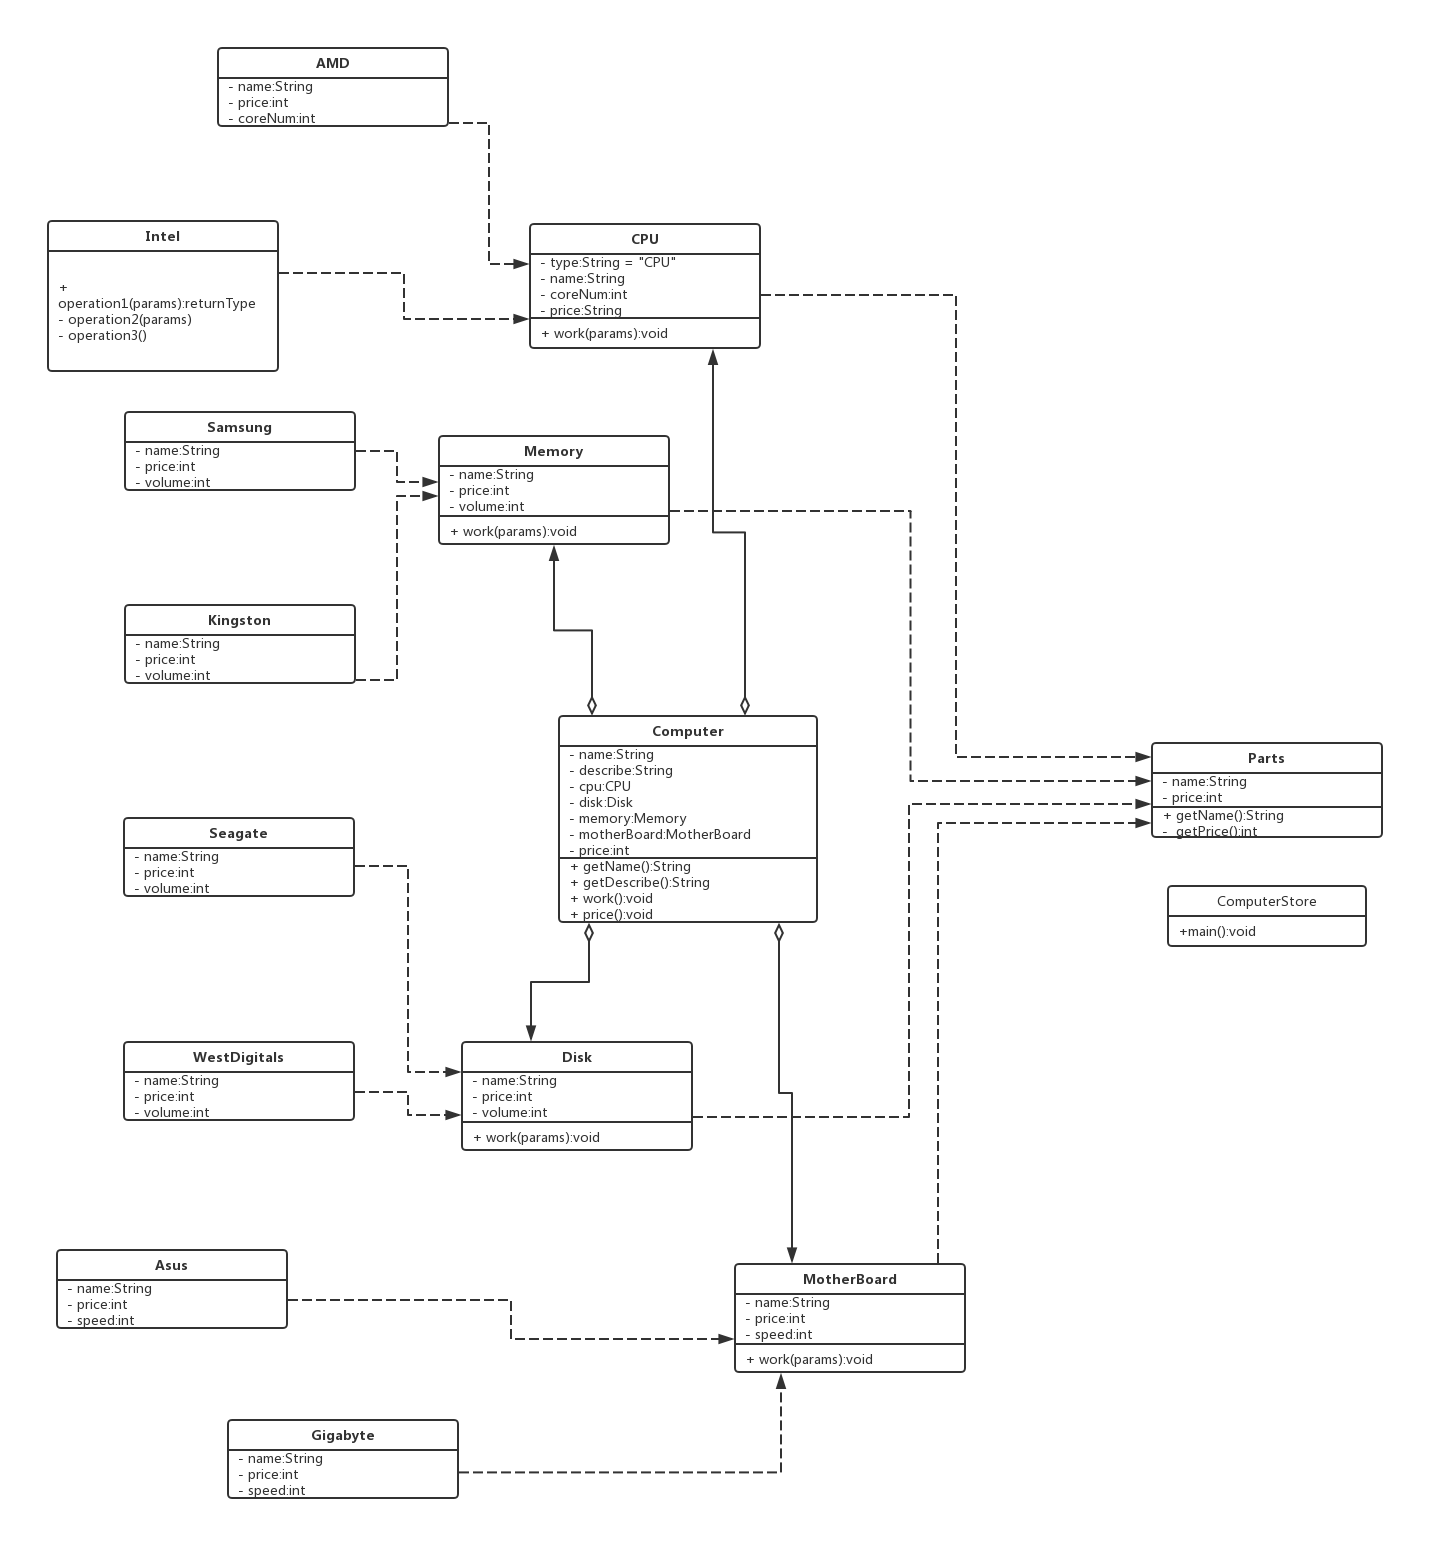
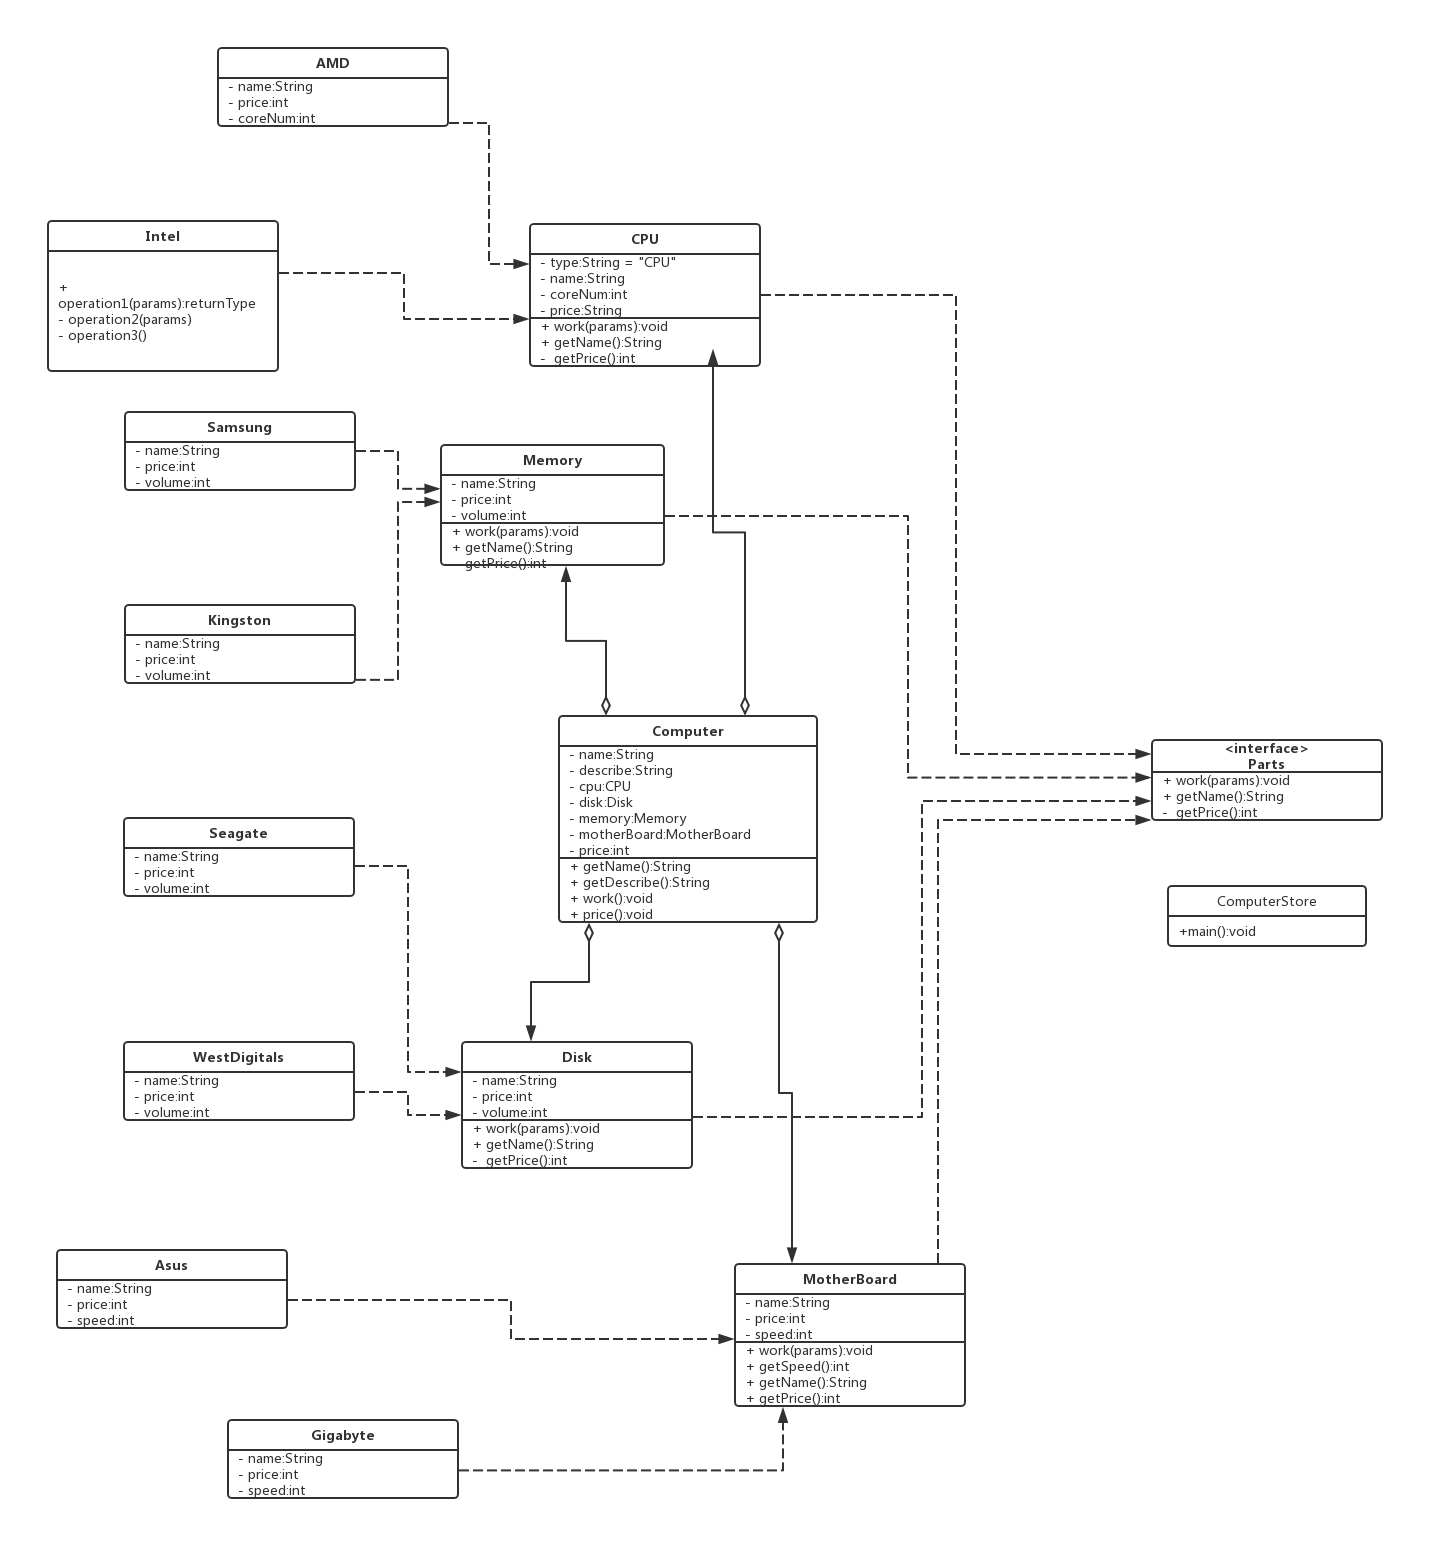
增加接口

diff --git a/lab1/MotherBoard/MotherBoard.java b/lab1/MotherBoard/MotherBoard.java
@@ -1,14 +1,13 @@
 package lab1.MotherBoard;
 import lab1.Parts;
 
-public abstract class MotherBoard extends Parts{
+public abstract class MotherBoard implements Parts{
 	private final static String type = "MotherBoard";
 	private String name;
 	private int price;
 	private int speed;
 	
 	public MotherBoard(String name, int price ,int speed){
-		super(name,price);
 		this.name = name;
 		this.price = price;
 		this.speed = speed;
@@ -18,12 +17,16 @@ public abstract class MotherBoard extends Parts{
 		System.out.println(" " + MotherBoard.type + "Work");
 	}
 	
-//	public String getName() {
-//		return this.name;
-//	}
-//	
-//	public int getPrice() {
-//		return this.price;
-//	}
+	public String getName() {
+		return this.name;
+	}
+
+	public int getPrice() {
+		return this.price;
+	}
+
+	public int getSpeed(){
+		return this.speed;
+	}
 
 }

diff --git a/lab1/Memory/Memory.java b/lab1/Memory/Memory.java
@@ -1,14 +1,13 @@
 package lab1.Memory;
 import lab1.Parts;
 
-public abstract class Memory extends Parts{
+public abstract class Memory implements Parts{
 	private final static String type = "Memory";
 	private String name;
 	private int price;
 	private int volume;
 	
 	public Memory(String name, int price, int volume){
-		super(name,price);
 		this.name = name;
 		this.price = price;
 		this.volume = volume;
@@ -18,11 +17,11 @@ public abstract class Memory extends Parts{
 		System.out.println(" " + Memory.type + "Work");
 	}
 
-//	public String getName() {
-//		return this.name;
-//	}
-//	
-//	public int getPrice() {
-//		return this.price;
-//	}
+	public String getName() {
+		return this.name;
+	}
+
+	public int getPrice() {
+		return this.price;
+	}
 }

diff --git a/lab1/CPU/CPU.java b/lab1/CPU/CPU.java
@@ -1,30 +1,28 @@
 package lab1.CPU;
 import lab1.Parts;
 
-public abstract class CPU extends Parts{
+public abstract class CPU implements Parts{
 	private final static String type = "CPU";
 	private String name;
 	private int price;
 	private int coreNum;
 	
 	public CPU(String name, int price, int coreNum){
-		super(name,price);
 		this.name = name;
 		this.price = price;
 		this.coreNum = coreNum;
-		//System.out.println(this.name);
 	}
 	
 	public void work() {
 		System.out.println(" " + CPU.type + "Work");
 	}
 	
-//	public String getName() {
-//		return this.name;
-//	}
-//	
-//	public int getPrice() {
-//		return this.price;
-//	}
+	public String getName() {
+		return this.name;
+	}
+
+	public int getPrice() {
+		return this.price;
+	}
 
 }

diff --git a/lab1/Disk/Disk.java b/lab1/Disk/Disk.java
@@ -1,14 +1,13 @@
 package lab1.Disk;
 import lab1.Parts;
 
-public abstract class Disk extends Parts{
+public abstract class Disk implements Parts{
 	private final static String type = "Disk";
 	private String name;
 	private int price;
 	private int volume;
 	
 	public Disk(String name, int price, int volume){
-		super(name,price);
 		this.name = name;
 		this.price = price;
 		this.volume = volume;
@@ -18,11 +17,11 @@ public abstract class Disk extends Parts{
 		System.out.println(" " + Disk.type + "Work");
 	}
 
-//	public String getName() {
-//		return this.name;
-//	}
-//	
-//	public int getPrice() {
-//		return this.price;
-//	}
+	public String getName() {
+		return this.name;
+	}
+
+	public int getPrice() {
+		return this.price;
+	}
 }

diff --git a/lab1/Parts.java b/lab1/Parts.java
@@ -1,24 +1,7 @@
 package lab1;
 
-public abstract class Parts {
-	private String name;
-	private int price;
-	
-	public Parts(String name, int price){
-		this.name = name;
-		this.price = price;
-	}
-	
-	public abstract void work();
-	
-	public String getName() {
-		return this.name;
-	}
-	
-	public int getPrice() {
-		return this.price;
-	}
-	
-	
-
+public interface Parts {
+	public void work();
+	public int getPrice();
+	public String getName();
 }
